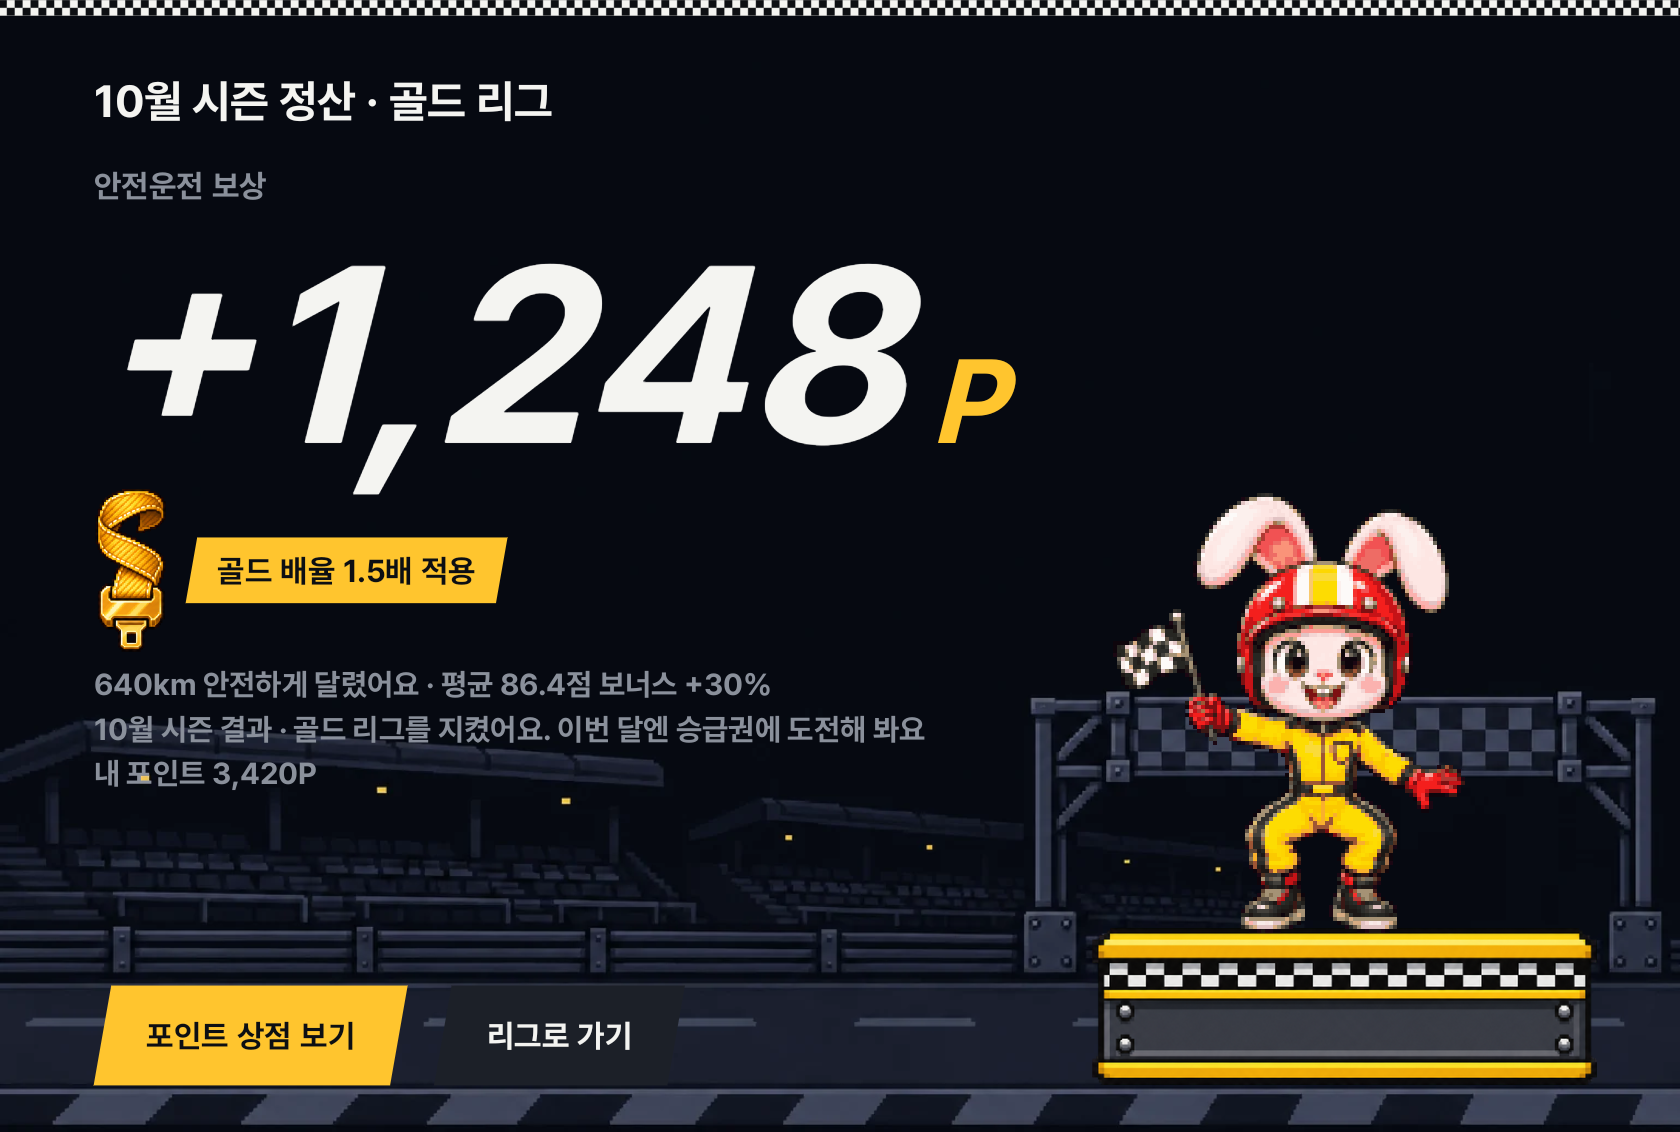
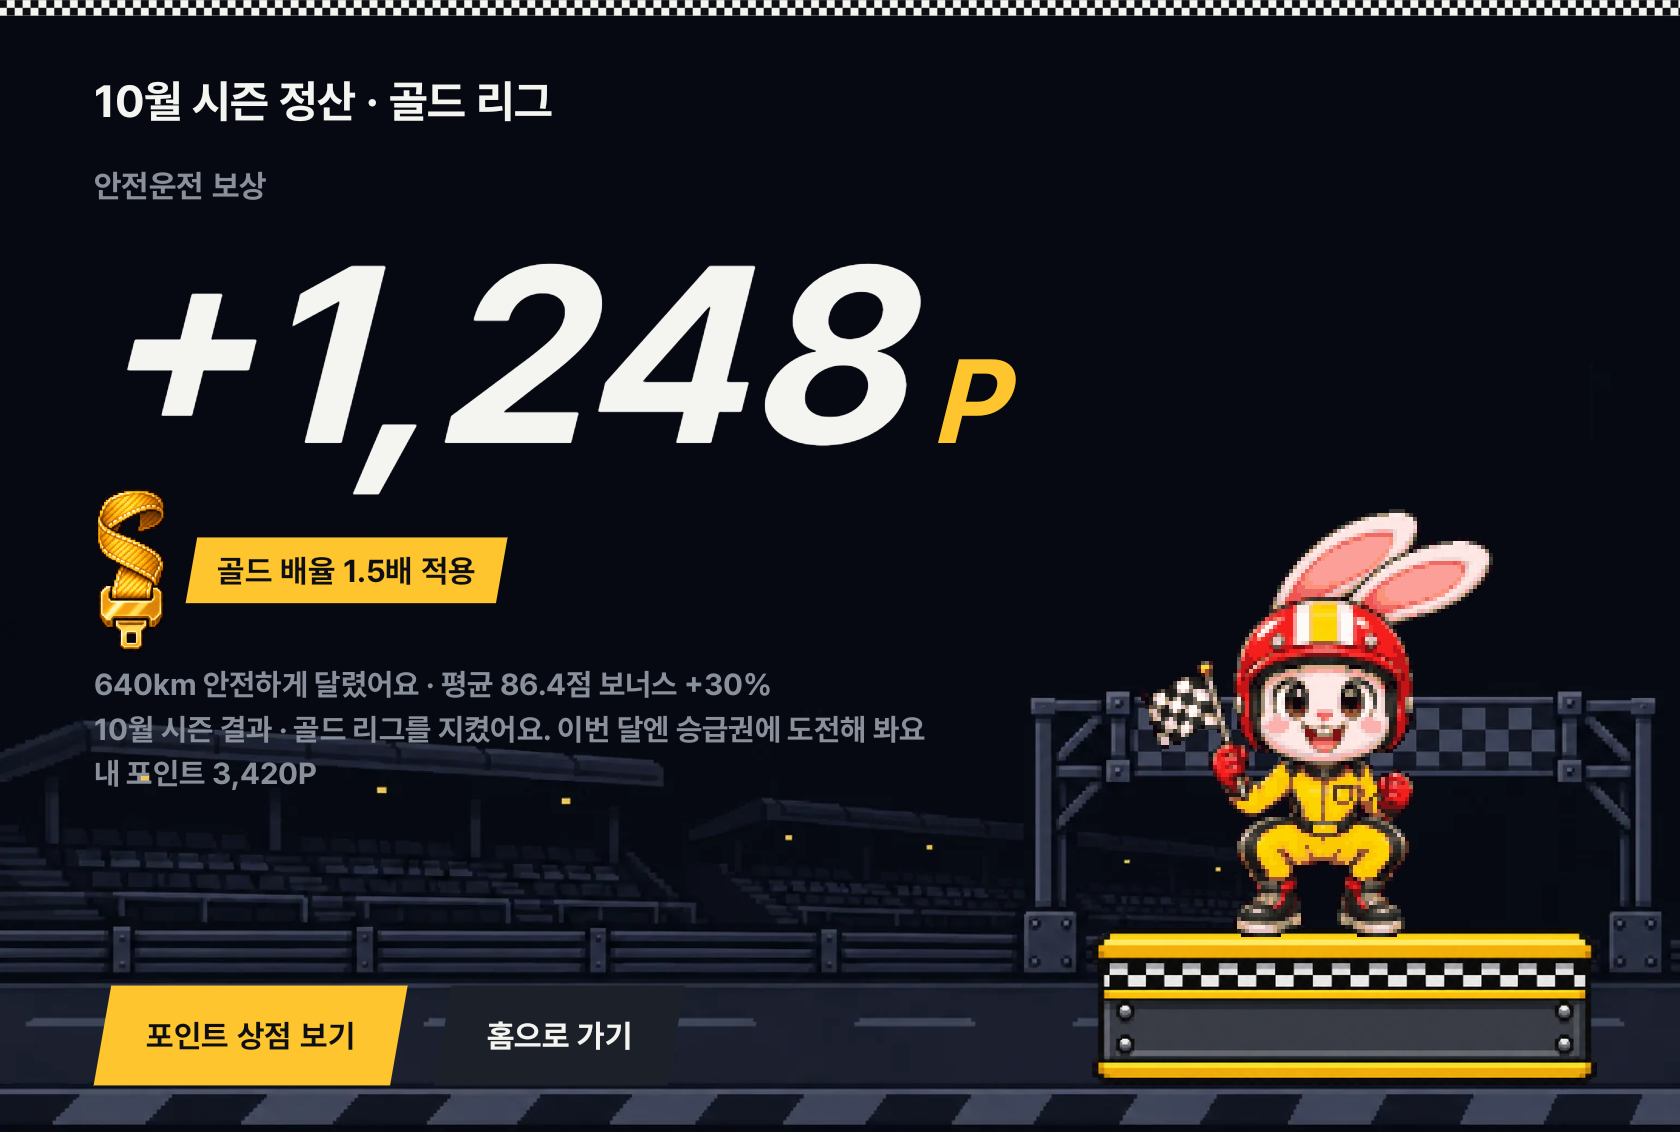
docs: 제출 시안에 홈 추가, 바뀐 화면 5장 다시 찍음

Changed region(s): [[0.65, 0.4329, 0.8976, 0.8348], [0.2786, 0.8966, 0.3405, 0.9276]]

diff --git a/README.md b/README.md
@@ -8,6 +8,7 @@
 Pleos Connect 에뮬레이터에서 동작하는 안드로이드 앱입니다. 소스는 [`app/`](app/)에 있습니다.
 
 - 실제 차량 신호 수집: Vehicle State SDK, AAOS CarPropertyManager
+- 시작 연출과 홈(이번 시즌 상태와 메뉴)
 - 트립 점수, 결과 카드, 레이스 리플레이, 주간 리포트, 월간 시즌 정산
 - 시즌 포인트 정산, 토끼 피트샵, 쿠폰함(시연용 쿠폰이며 실제로 발급되지 않습니다)
 - 안전 가이드: 재난 대처, 상황별 주의, 초보 꿀팁(법령과 공공기관 자료 기준, [근거](docs/safety-guide-sources.md))
@@ -30,6 +31,10 @@ adb forward tcp:8088 tcp:8088    # Virtual Console: http://127.0.0.1:8088/
 Virtual Console에서 기어를 D로 놓고 ACCEL로 3km 이상 달린 뒤 P로 바꾸면 결과 카드가 뜹니다. 앱 왼쪽 위 모서리를 길게 누르면 시연 모드가 열립니다.
 
 ## 앱 화면
+
+**홈.** 앱을 켜면 짧은 시작 연출 뒤 홈이 나옵니다. 이번 시즌 티어와 순위, 지난 주행 점수, 포인트를 한눈에 보고 리그, 리포트, 피트샵, 안전 가이드로 갑니다.
+
+![홈](design/submission/0-home.png)
 
 **주행 결과 — 잘 달린 날.** 주차(P단)하면 레이스 종료 화면이 뜹니다. 오늘 제친 운전자와 승급 라인까지 남은 거리가 보입니다.
 
